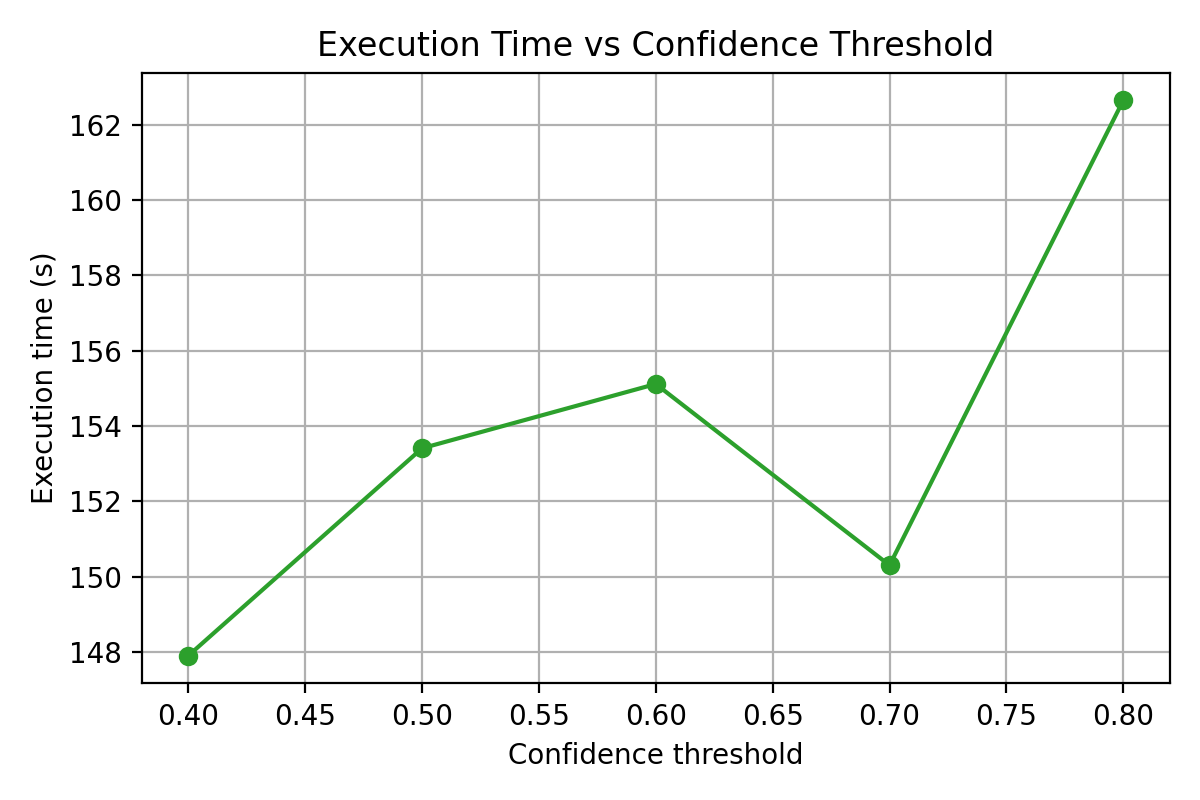
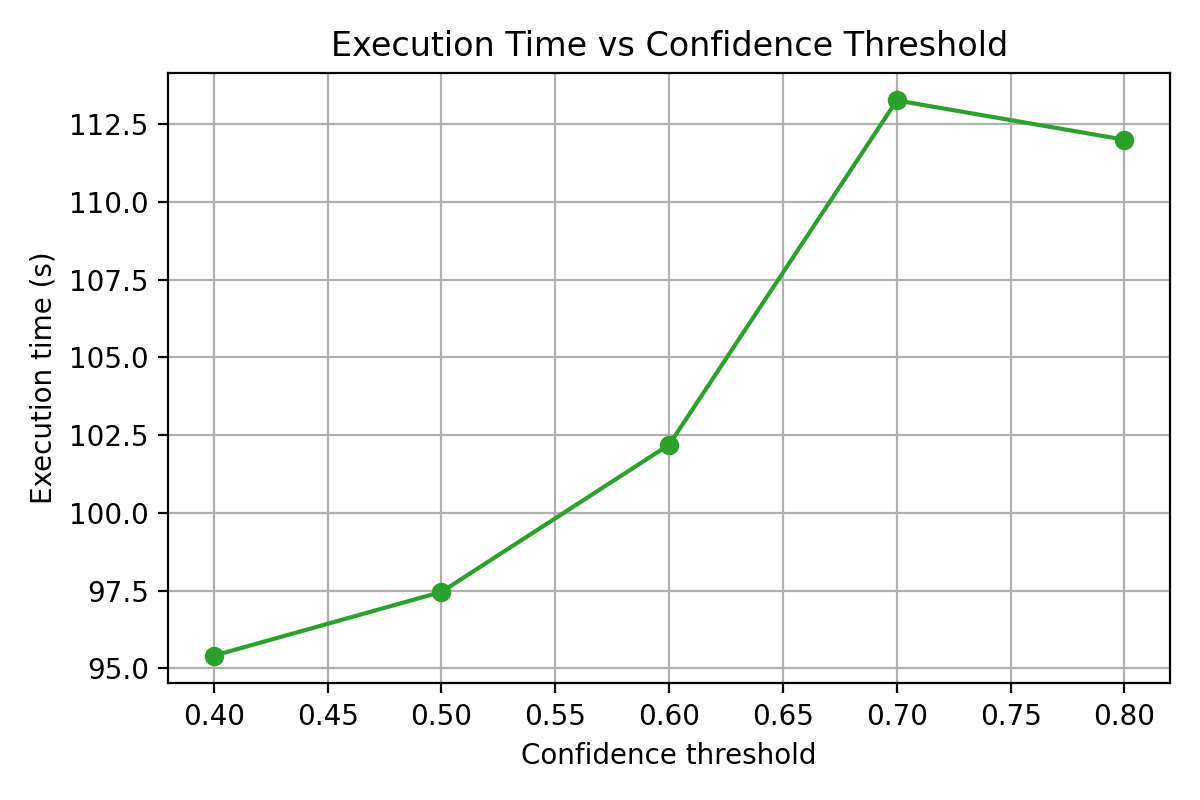
add measurement with execution time of k-itemsets

diff --git a/FrequentItems/frequentItemset.py b/FrequentItems/frequentItemset.py
@@ -216,12 +216,153 @@ class FrequentItemSets:
             "n_rules": len(rules),
         }
 
+    # This for collecting k-level timing information for performance analysis
+    def extract_frequent_items_with_k_timing(self):
+        """Extract frequent itemsets and return timing information for each k value"""
+        start_time = time.time()
+        k_timings = []
+
+        # Load dataset
+        data_frame = self.spark.read.text(self.path)
+        baskets = (
+            data_frame.rdd.map(lambda row: frozenset(row.value.strip().split()))
+            .filter(lambda b: len(b) > 0)
+            .repartition(8)
+            .cache()
+        )
+
+        total_baskets = baskets.count()
+        support_threshold = int(self.support_percentage * total_baskets)
+
+        print(f"Total baskets: {total_baskets}")
+        print(f"Support threshold: {support_threshold}")
+
+        # === PASS 1: Find L1 and filter transactions ===
+        print(f"\n--- Processing k = 1 ---")
+        k1_start = time.time()
+
+        item_count = baskets.flatMap(lambda b: [(item, 1) for item in b]).reduceByKey(
+            lambda x, y: x + y
+        )
+        frequent_items_l = item_count.filter(
+            lambda i: i[1] >= support_threshold
+        ).cache()
+
+        l = [tuple([item[0]]) for item in frequent_items_l.collect()]
+        l_all = [(tuple([item[0]]), item[1]) for item in frequent_items_l.collect()]
+
+        k1_time = time.time() - k1_start
+        k_timings.append({"k": 1, "time": k1_time, "count": len(l)})
+        print(f"Found {len(l)} frequent itemsets for k = 1 (Time: {k1_time:.2f}s)")
+
+        # OPTIMIZATION: Filter baskets to only contain frequent items
+        frequent_items_set = set(item[0] for item in l)
+        frequent_items_bc = self.spark.sparkContext.broadcast(frequent_items_set)
+
+        baskets_filtered = (
+            baskets.map(
+                lambda b: frozenset(
+                    item for item in b if item in frequent_items_bc.value
+                )
+            )
+            .filter(lambda b: len(b) > 1)
+            .cache()
+        )
+
+        # Force evaluation and unpersist old RDD
+        baskets_filtered.count()
+        baskets.unpersist()
+        baskets = baskets_filtered
+
+        print(f"Filtered transactions to contain only frequent items")
+
+        # === PASS 2+: Find L2, L3, ... ===
+        k = 2
+        while l:
+            print(f"\n--- Processing k = {k} ---")
+            k_start = time.time()
+
+            candidates = self._get_candidates(l, k)
+            if not candidates:
+                break
+
+            print(f"Generated {len(candidates)} candidates")
+
+            # OPTIMIZATION: Convert candidates to frozenset for faster subset checking
+            candidates_as_sets = [frozenset(c) for c in candidates]
+            broadcast_candidates = self.spark.sparkContext.broadcast(candidates_as_sets)
+
+            # Count candidates
+            candidate_pairs = baskets.flatMap(
+                lambda basket: [
+                    (tuple(sorted(c)), 1)
+                    for c in broadcast_candidates.value
+                    if c.issubset(basket)  # Much faster with frozenset
+                ]
+            ).reduceByKey(lambda a, b: a + b)
+
+            candidate_counts = candidate_pairs.filter(
+                lambda x: x[1] >= support_threshold
+            ).cache()
+
+            count_l = candidate_counts.count()
+            if count_l == 0:
+                print(f"No frequent itemsets found for size {k}.")
+                break
+
+            l = [item[0] for item in candidate_counts.collect()]
+            l_all.extend(candidate_counts.collect())
+
+            k_time = time.time() - k_start
+            k_timings.append({"k": k, "time": k_time, "count": count_l})
+            print(
+                f"Found {count_l} frequent itemsets for k = {k} (Time: {k_time:.2f}s)"
+            )
+
+            # Clean up broadcast variable
+            broadcast_candidates.unpersist()
+
+            k += 1
+
+        print("\n***** Frequent Itemsets *****")
+        for itemset, count in l_all:
+            print(f"{itemset}: {count}")
+
+        freq_itemset = {tuple(sorted(itemset)): count for itemset, count in l_all}
+
+        print("\n--- Generating Association Rules ---")
+        rules = self._generate_association_rules(freq_itemset, support_threshold)
+
+        print(
+            "\n***********Association rules (X -> Y)   [support, confidence]:***************"
+        )
+        for i, (x, y, support, confidence) in enumerate(rules, 1):
+            print(
+                f"{i:>2}. {x} -> {y}   [support={support}, confidence={confidence:.3f}]"
+            )
+
+        elapsed = time.time() - start_time
+        print(f"\nTotal execution time: {elapsed:.2f} seconds")
+
+        # Cleanup
+        baskets.unpersist()
+        self.spark.stop()
+
+        return {
+            "support": self.support_percentage,
+            "confidence": self.confidence_threshold,
+            "runtime": elapsed,
+            "n_itemsets": len(freq_itemset),
+            "n_rules": len(rules),
+            "k_timings": k_timings,
+        }
+
 
 if __name__ == "__main__":
     base_directory = os.path.dirname(os.path.abspath(__file__))
     file_path = os.path.join(base_directory, "resources", "T10I4D100K.dat")
 
     frequent_items = FrequentItemSets(
-        path=file_path, support_percentage=0.01, confidence_threshold=0.6
+        path=file_path, support_percentage=0.005, confidence_threshold=0.6
     )
     frequent_items.extract_frequent_items()

diff --git a/FrequentItems/test_k_timing.py b/FrequentItems/test_k_timing.py
@@ -1,0 +1,110 @@
+import os
+import csv
+import matplotlib.pyplot as plt
+from frequentItemset import FrequentItemSets
+
+
+def test_k_timing(support_percentage=0.005, confidence_threshold=0.6):
+    """
+    Test execution time for finding frequent itemsets for each k value (k=1, k=2, ...)
+    """
+    base_directory = os.path.dirname(os.path.abspath(__file__))
+    file_path = os.path.join(base_directory, "Resources", "T10I4D100K.dat")
+    
+    print("=" * 60)
+    print("Testing Execution Time for Each k Value")
+    print("=" * 60)
+    print(f"Dataset: {file_path}")
+    print(f"Support threshold: {support_percentage}")
+    print(f"Confidence threshold: {confidence_threshold}")
+    print("=" * 60)
+    
+    # Initialize the frequent itemset miner
+    frequent_items = FrequentItemSets(
+        path=file_path,
+        support_percentage=support_percentage,
+        confidence_threshold=confidence_threshold
+    )
+    
+    # Extract frequent itemsets with k-level timing
+    result = frequent_items.extract_frequent_items_with_k_timing()
+    
+    # Display results
+    print("\n" + "=" * 60)
+    print("Execution Time Summary by k Value")
+    print("=" * 60)
+    print(f"{'k':<5} {'Time (s)':<15} {'# Itemsets':<15} {'% of Total':<15}")
+    print("-" * 60)
+    
+    k_timings = result["k_timings"]
+    total_time = result["runtime"]
+    
+    for timing in k_timings:
+        k = timing["k"]
+        time_k = timing["time"]
+        count = timing["count"]
+        percentage = (time_k / total_time) * 100 if total_time > 0 else 0
+        print(f"{k:<5} {time_k:<15.2f} {count:<15} {percentage:<15.2f}%")
+    
+    print("-" * 60)
+    print(f"{'Total':<5} {total_time:<15.2f} {result['n_itemsets']:<15} {'100.00%':<15}")
+    print("=" * 60)
+    
+    # Save results to CSV
+    output_file = os.path.join(base_directory, "k_timing_results.csv")
+    with open(output_file, "w", newline="") as f:
+        writer = csv.writer(f)
+        writer.writerow(["k", "Time (s)", "# Itemsets", "% of Total"])
+        for timing in k_timings:
+            k = timing["k"]
+            time_k = timing["time"]
+            count = timing["count"]
+            percentage = (time_k / total_time) * 100 if total_time > 0 else 0
+            writer.writerow([k, f"{time_k:.2f}", count, f"{percentage:.2f}"])
+        writer.writerow(["Total", f"{total_time:.2f}", result["n_itemsets"], "100.00"])
+    
+    print(f"\nResults saved to: {output_file}")
+    
+    # Create visualization plots
+    plot_results(k_timings, total_time, base_directory, support_percentage, confidence_threshold)
+    
+    return result
+
+
+def plot_results(k_timings, total_time, base_directory, support_percentage, confidence_threshold):
+    """
+    Create a graph visualizing execution time for each k value
+    """
+    # Extract data for plotting
+    k_values = [timing["k"] for timing in k_timings]
+    times = [timing["time"] for timing in k_timings]
+    
+    # Create a single figure
+    plt.figure(figsize=(10, 6))
+    plt.plot(k_values, times, marker='o', linewidth=2.5, markersize=10, color='tab:blue', 
+             markerfacecolor='white', markeredgewidth=2, markeredgecolor='tab:blue')
+    plt.xlabel('k (Itemset Size)', fontsize=12, fontweight='bold')
+    plt.ylabel('Execution Time (seconds)', fontsize=12, fontweight='bold')
+    plt.title(f'Execution Time vs k Value\n(Support: {support_percentage}, Confidence: {confidence_threshold})', 
+              fontsize=13, fontweight='bold')
+    plt.grid(True, alpha=0.3, linestyle='--')
+    plt.xticks(k_values)
+    
+    # Add value labels on each point
+    for k, time in zip(k_values, times):
+        plt.annotate(f'{time:.2f}s', (k, time), textcoords="offset points", 
+                    xytext=(0,10), ha='center', fontsize=9)
+    
+    plt.tight_layout()
+    
+    # Save the plot
+    plot_file = os.path.join(base_directory, "k_timing_analysis.png")
+    plt.savefig(plot_file, dpi=200, bbox_inches='tight')
+    print(f"Plot saved to: {plot_file}")
+    plt.show()
+
+
+if __name__ == "__main__":
+    # You can modify these parameters as needed
+    test_k_timing(support_percentage=0.005, confidence_threshold=0.6)
+
